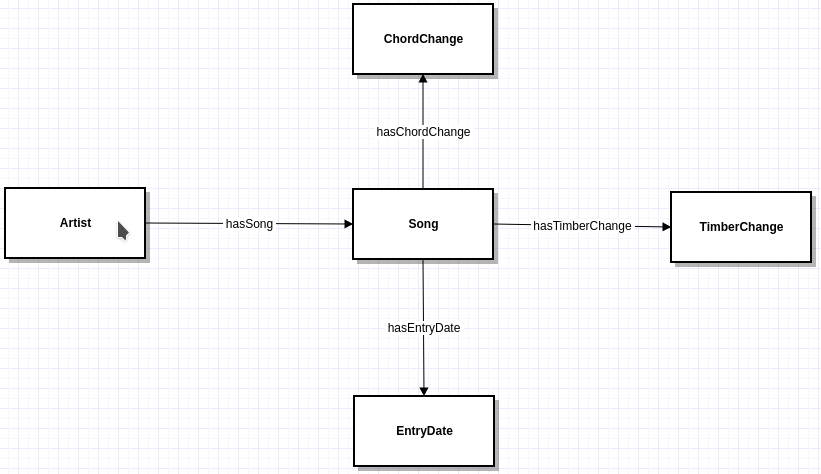
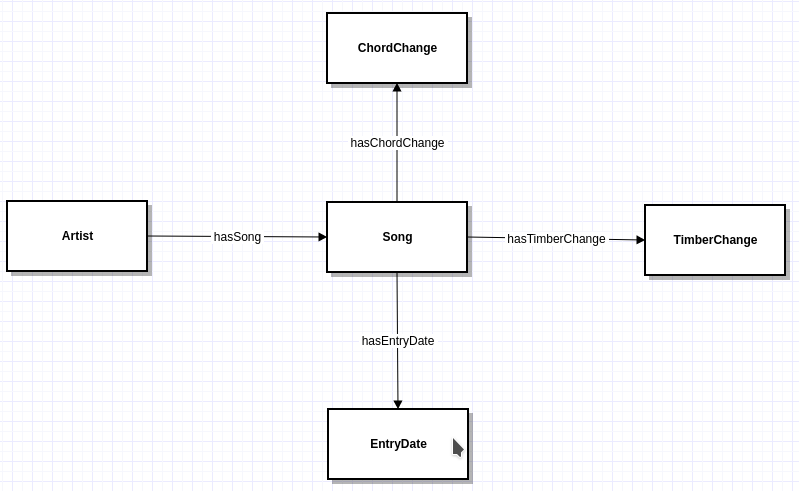
Añadida ontología y ampliada la documentación hasta proceso de transformación

diff --git a/IvanRodriguezTorres/README.md b/IvanRodriguezTorres/README.md
@@ -94,6 +94,9 @@ A continuación, se presentan los requisitos que se consideran necesarios para e
 **RNF03**: Debe estar disponible en inglés.
 **RNF04**: Si se publica, ha de ser con la licencia citada en los apartados anteriores, [CreativeCommons 4.0](https://creativecommons.org/licenses/by/4.0/).
 **RNF05**: Se debe presentar documentación sobre la estructura de la misma.
+**RNF07**: Se debe validar usando una herramienta apropiada.
+**RNF08**: Se debe conseguir que no presente pitfalls importantes en el validador Oops!.
+
 
 ### Extracción de términos
 
@@ -101,11 +104,10 @@ Se crea un glosario para la ontología que se prentende construir. Para construi
 
 - *Artist*: Persona que se dedica a la música,como compositor o como intérprete.
 - *Chord*: Conjunto de tres o más notas diferentes.
-- *Decade*: Período de 10 años.
-- *Musician*: Ver *artista*.
+- *Musician*: Ver *Artist*.
 - *Song*: Composición, por lo general en verso, que se canta o a la que se puede poner música.
 - *Timbre*: Cualidad del sonido de la voz de una persona o de un instrumento musical que permite distinguirlo de otro sonido del mismo tono.
-- *Track*: Ver *Canción*.
+- *Track*: Ver *Song*.
 - *Tone*: Ver *Timbre*.
 
 ### Conceptualización
@@ -147,12 +149,28 @@ La ontología *Music by Kivash*, en principio, parecía una buena candidata pero
 Las últimas dos candidatas, *Digital Media Assets* y *Music Ontology* son bastante completas ambas y ambas serían válidas para el proyecto. Como ambas cubren nuestro dominio en igual grado se escogerá *Music Ontology* ya que parece la mejor documentada.
 
 ### Implementación de nuestra ontología
+
+Se ha realizado la implementación de la ontología siguiendo el diagrama propuesto en la sección [Conceptualización](https://github.com/ivan0013/Curso2016-2017/tree/master/IvanRodriguezTorres#conceptualización), tal y como puede verse en el fichero adjunto *ontologia.owl*.
+
 ### Evaluación de los resultados
-
-
+Para validar que la ontología es correcta, se siguen varios pasos:
+1. Se comprueba que la ontología está bien formada. Para ello, utilizamos la herramienta [Turtle Validator](http://ttl.summerofcode.be/).
+2. Se analizan los pitfalls en Oops!. Han sido necesarias varias iteraciones sobre este paso, ya que, había ciertos errores en las definiciones de dominio y rango de algunas propiedades.
 
 ## Proceso de transformación
+En este paso, el objetivo es transformar los datos a RDF, para ello, usaremos el software OpenRefine.
+
+Ademś, hay que aclarar que han sido necesarias una serie de transformaciones para adaptar el dataset inicial.
+- Varias de las canciones estaban interpretadas por varios artistas, y éstes aparecían todos en el campo artista, relacionados con las palabras "feat", "ft", etc. Para solucionar esto, nos quedamos solo con el primer artista que aparezca.
+
+- Tanto los cambios de acorde como los de timbre aparecen desglosados según su tipo. Es necesario sumarlos para tener el número de cambios total.
+
+- Se eliminan algunas columnas innecesarias, como "year" o "decade".
+
+**Nota:** Durante esta transformación, se pudo observar que la cantidad de cambios de acordes totales para todas las canciones era la misma. Por lo tanto, podríamos estar ante un error. Para no mermar demasiado el dataset, ignoraremos el error.
+
 ## Enlazado
+
 ## Publicación
 
 
